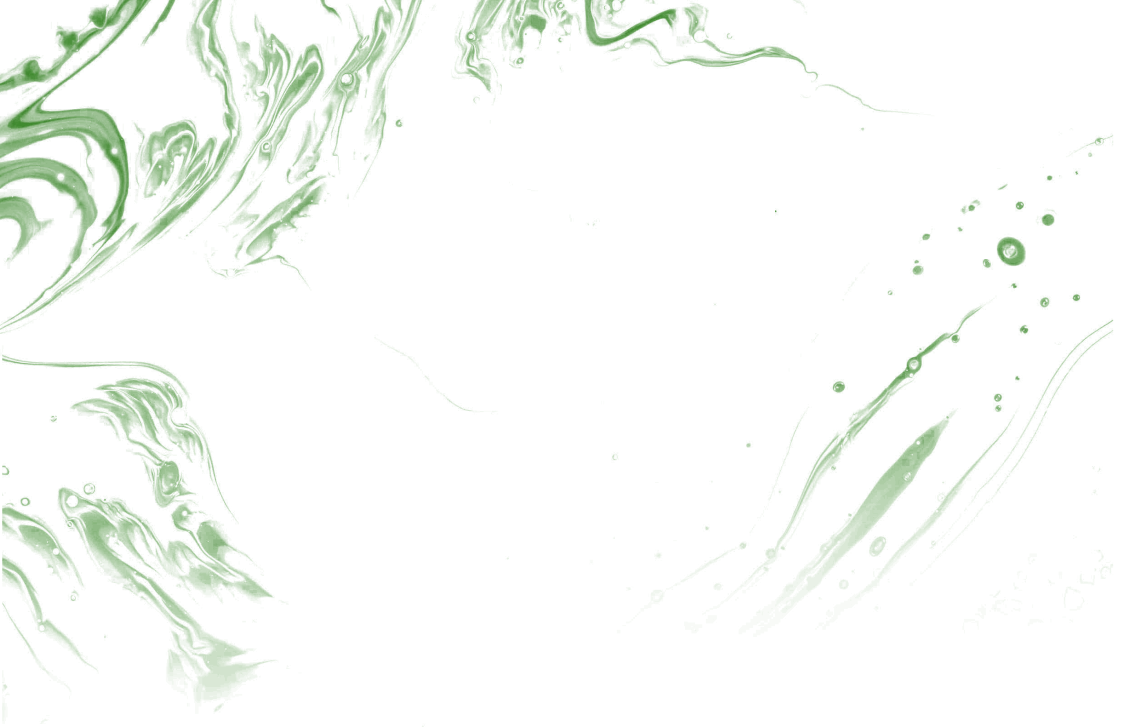
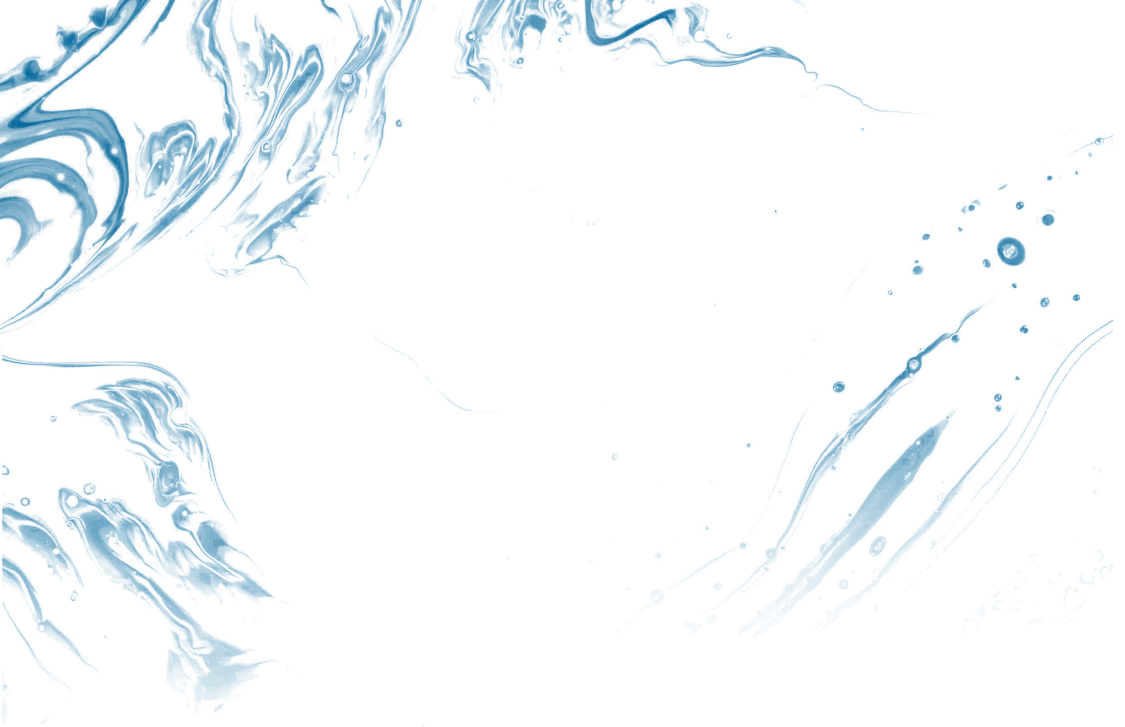
Switched the ambiant theme to blue to match polkadot.js.

diff --git a/lib/pages/governance.dart b/lib/pages/governance.dart
@@ -117,7 +117,7 @@ class Gov extends StatelessWidget {
                                 'packages/polkawallet_plugin_edgeware/assets/images/public/hero_icon.png',
                                 width: 56,
                               ),
-                              color: Colors.deepPurple,
+                              color: Colors.purple,
                             ),
                             onTap: () => Navigator.of(context).pushNamed(
                               DAppWrapperPage.route,

diff --git a/lib/polkawallet_plugin_edgeware.dart b/lib/polkawallet_plugin_edgeware.dart
@@ -56,8 +56,8 @@ class PluginEdgeware extends PolkawalletPlugin {
       : basic = PluginBasicData(
           name: 'edgeware',
           ss58: 7,
-          primaryColor: Colors.green,
-          gradientColor: Colors.lightGreen,
+          primaryColor: Colors.blue,
+          gradientColor: Colors.cyan,
           backgroundImage: AssetImage(
               'packages/polkawallet_plugin_edgeware/assets/images/public/bg_edgeware.png'),
           icon: Image.asset(
